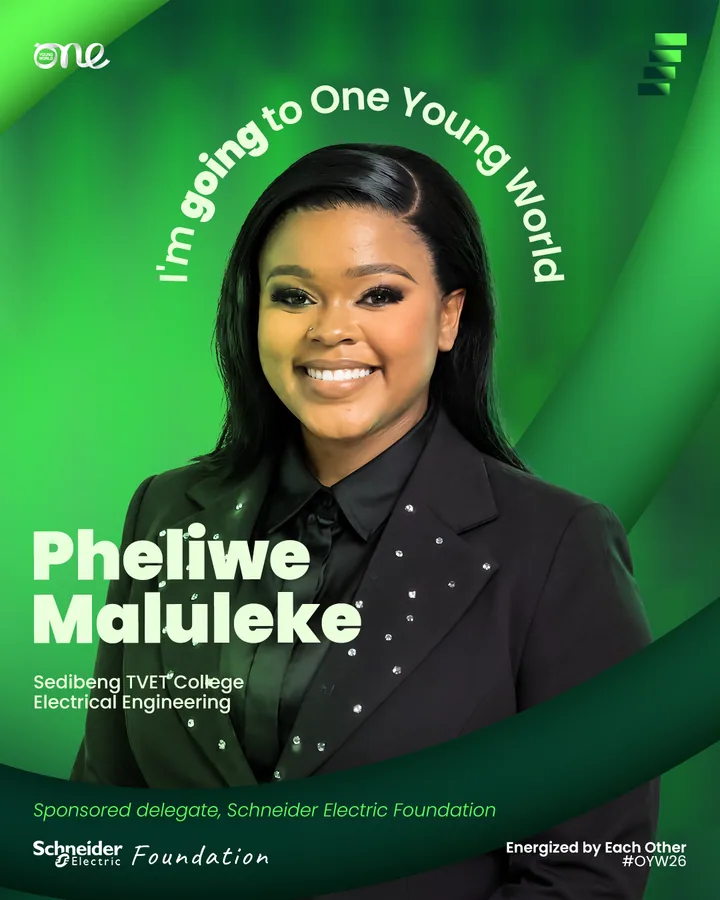
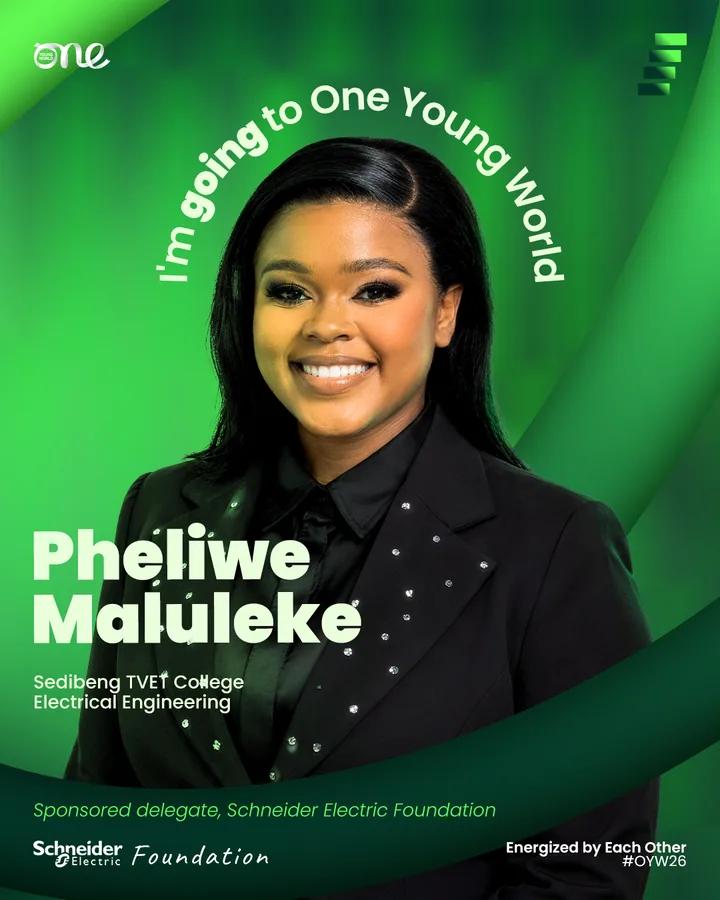
Posts: 18 Oct upload — ninth mentor Sonali Surgeon, Foundation portraits in
The client rebuilt the Deliverables folder (new Drive folder, not
link-shared; mirrored through the Drive connector by modification time).
Changes: Sonali Surgeon added as the ninth mentor (card + caption,
mentors_manifest.json); all ten Foundation Announcement cards re-exported
with the delegates' final portraits; manifest status and README updated.
Everything else is byte-identical to the 15 Oct set. 213/213 caption
strings verbatim. tools/review_snapshot.py now lives in the repo (the
scratch copy was lost to temp cleanup). Cache version 20261018a.

diff --git a/index.html b/index.html
@@ -11,7 +11,7 @@
   <meta property="og:type" content="website">
   <link rel="icon" href="assets/se-mark.svg" type="image/svg+xml">
   <link rel="preload" as="image" href="assets/frames/frame-bg-lossless.webp" type="image/webp">
-  <link rel="stylesheet" href="css/style.css?v=20261015b">
+  <link rel="stylesheet" href="css/style.css?v=20261018a">
 </head>
 <body>
 
@@ -298,10 +298,10 @@ Schneider Electric</pre>
 
   <div id="toast" class="toast" role="status" aria-live="polite"></div>
 
-  <script src="js/app.js?v=20261015b" defer></script>
-  <script src="js/signature.js?v=20261015b" defer></script>
-  <script src="js/toolkit.js?v=20261015b" defer></script>
-  <script src="js/editor.js?v=20261015b" defer></script>
-  <script src="js/posts.js?v=20261015b" defer></script>
+  <script src="js/app.js?v=20261018a" defer></script>
+  <script src="js/signature.js?v=20261018a" defer></script>
+  <script src="js/toolkit.js?v=20261018a" defer></script>
+  <script src="js/editor.js?v=20261018a" defer></script>
+  <script src="js/posts.js?v=20261018a" defer></script>
 </body>
 </html>

diff --git a/tools/review_snapshot.py b/tools/review_snapshot.py
@@ -1,0 +1,55 @@
+#!/usr/bin/env python3
+"""Compare a new Drive mirror (source/posts-new) with the live one (source/posts), ignoring date prefixes.
+Usage: python3 tools/review_snapshot.py [out_dir]   -> prints a summary; writes report.txt and copy-diffs.txt to out_dir.
+Date prefixes (YYYY-MM-DD_) are stripped from paths so a reschedule shows as 'date-renamed', not as a change."""
+import os, re, sys, hashlib, difflib
+ROOT = os.path.dirname(os.path.dirname(os.path.abspath(__file__)))
+OLD, NEW = os.path.join(ROOT, 'source/posts'), os.path.join(ROOT, 'source/posts-new')
+OUT = sys.argv[1] if len(sys.argv) > 1 else os.path.join(ROOT, 'source', '_review')
+os.makedirs(OUT, exist_ok=True)
+norm = lambda p: re.sub(r"\d{4}-\d{2}-\d{2}_", "", p)
+def tree(base):
+    d = {}
+    for dp, dn, fn in os.walk(base):
+        for f in fn:
+            if f.startswith('.') or f.startswith('_listing'): continue
+            rel = os.path.relpath(os.path.join(dp, f), base).replace(os.sep, '/')
+            d.setdefault(norm(rel), []).append(rel)
+    return d
+sha = lambda p: hashlib.sha256(open(p, 'rb').read()).hexdigest()
+old, new = tree(OLD), tree(NEW)
+added = sorted(set(new) - set(old)); removed = sorted(set(old) - set(new)); common = sorted(set(old) & set(new))
+same, moved, changed = [], [], []
+for k in common:
+    o, n = os.path.join(OLD, old[k][0]), os.path.join(NEW, new[k][0])
+    if sha(o) == sha(n): (same if old[k][0] == new[k][0] else moved).append(k)
+    else: changed.append(k)
+rep = [f"old files {sum(len(v) for v in old.values())} | new files {sum(len(v) for v in new.values())}",
+       f"identical in place {len(same)} | identical, date-renamed {len(moved)} | content changed {len(changed)} | added {len(added)} | removed {len(removed)}",
+       "\n== ADDED ==\n" + "\n".join(added), "\n== REMOVED ==\n" + "\n".join(removed),
+       "\n== DATE-RENAMED ONLY ==\n" + "\n".join(f"{old[k][0]}  ->  {new[k][0]}" for k in moved)]
+hdr_only, copy, diffs, imgs = [], [], [], []
+for k in changed:
+    o, n = os.path.join(OLD, old[k][0]), os.path.join(NEW, new[k][0])
+    if k.endswith(('.txt', '.md', '.json')):
+        ot, nt = open(o, encoding='utf-8').read(), open(n, encoding='utf-8').read()
+        if k.endswith('caption.txt'):
+            split = lambda t: (t.split('\n===', 1) + [''])[:2]
+            (oh, ob), (nh, nb) = split(ot), split(nt)
+            if norm(ob).strip() == norm(nb).strip(): hdr_only.append(k)
+            else:
+                copy.append(k); diffs.append(f"\n### {k}\n" + "\n".join(difflib.unified_diff(norm(ob).splitlines(), norm(nb).splitlines(), 'live', 'new', lineterm='', n=1)))
+        else:
+            diffs.append(f"\n### {k}\n" + "\n".join(list(difflib.unified_diff(ot.splitlines(), nt.splitlines(), 'live', 'new', lineterm='', n=1))[:200]))
+    else:
+        try:
+            from PIL import Image, ImageChops
+            a, b = Image.open(o).convert('RGB'), Image.open(n).convert('RGB'); pct = None
+            if a.size == b.size:
+                A = a.resize((max(1, a.width // 10), max(1, a.height // 10))); B = b.resize(A.size)
+                d = ImageChops.difference(A, B).convert('L'); pct = round(100 * sum(1 for v in d.getdata() if v > 24) / (A.width * A.height), 1)
+            imgs.append(f"{k} | {a.size}->{b.size} | {pct}% pixels differ")
+        except Exception as e: imgs.append(f"{k} | binary changed ({e})")
+rep += [f"\n== CAPTIONS: header/dates only ({len(hdr_only)}) ==\n" + "\n".join(hdr_only), f"\n== CAPTIONS: copy changed ({len(copy)}) ==\n" + "\n".join(copy), f"\n== IMAGES/BINARIES changed ({len(imgs)}) ==\n" + "\n".join(imgs)]
+open(os.path.join(OUT, 'report.txt'), 'w').write("\n".join(rep)); open(os.path.join(OUT, 'copy-diffs.txt'), 'w').write("\n".join(diffs))
+print("\n".join(rep[:2])); print(f"added {len(added)}: {added[:6]}"); print(f"removed {len(removed)}: {removed[:6]}"); print("copy changed:", copy); print("\n".join(imgs))

diff --git a/README.md b/README.md
@@ -46,7 +46,7 @@ the hashed roster; it is never sent anywhere. The choice is remembered in localS
 Schneider emails, with the name and email, see below); *Change* in the welcome bar resets it.
 
 Audience rules: employees get the First-Year-Graduates set (5 posts, voices A–D); Explorers get
-their personal posts (EN, plus FR for the five French speakers); Mentors (eight Schneider leaders
+their personal posts (EN, plus FR for the five French speakers); Mentors (nine Schneider leaders since 18 Oct 2026
 listed in the client's `mentors_manifest.json`, called speakers until 15 Oct 2026 and checked before
 the main manifest) get a "Mentors" tab with their single, undated "Meet the Mentor" post; Foundation
 delegates (ten sponsored
